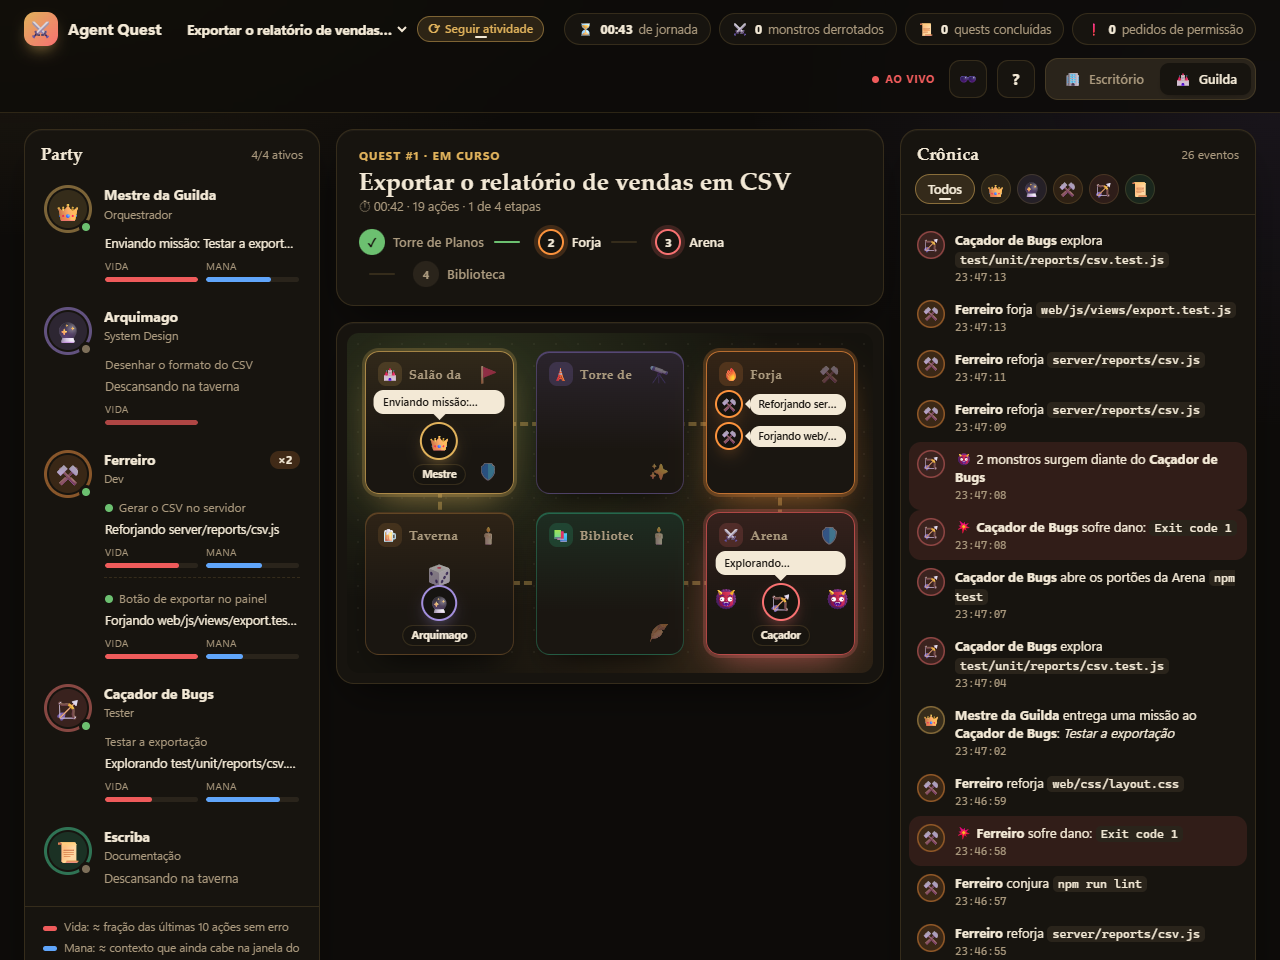
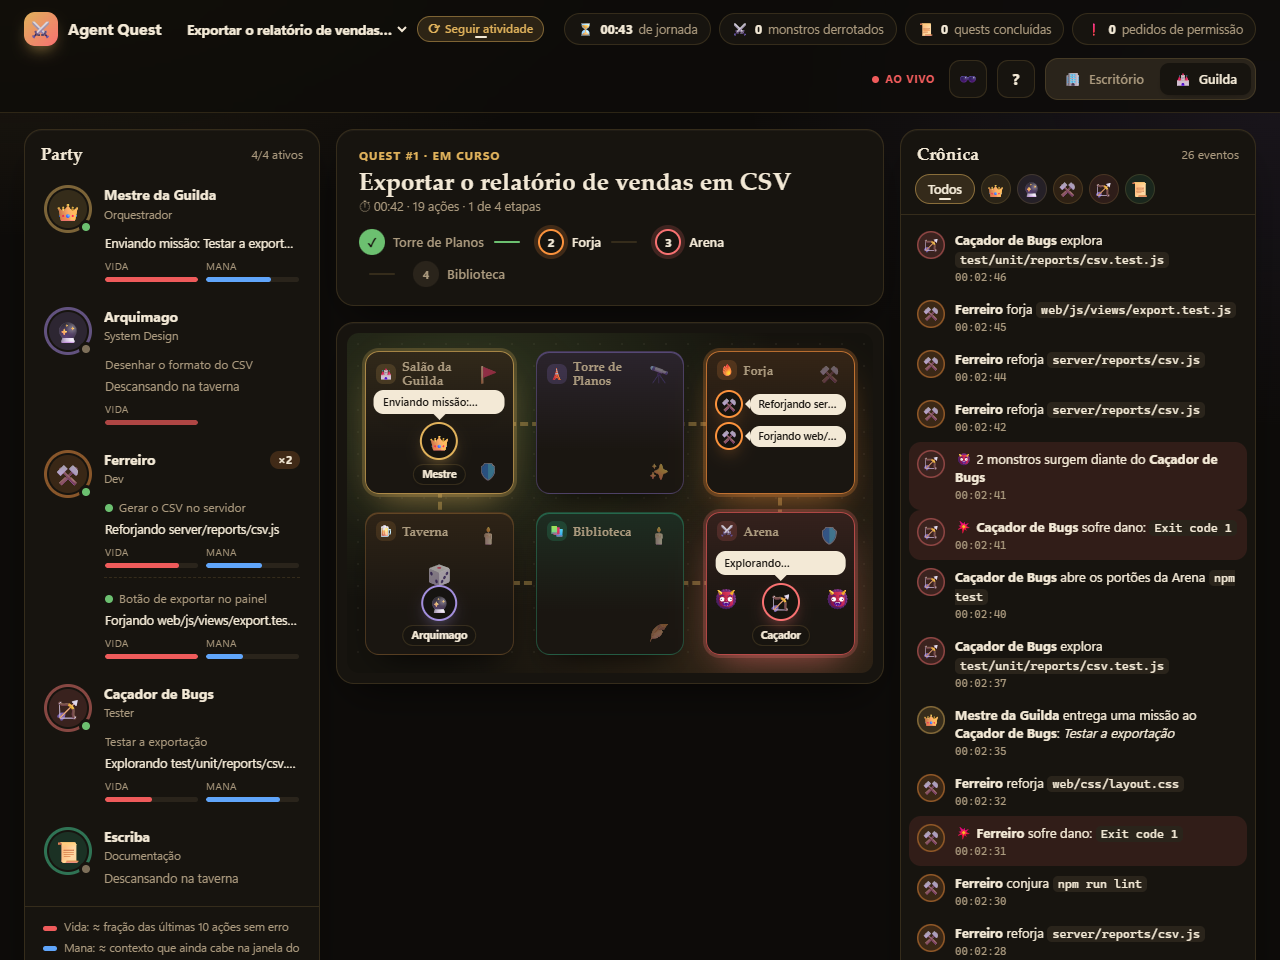
fix: nomes das salas inteiros na cena e prints do README refeitos
O nome da sala ganha elemento próprio com "…" e até duas linhas;
os E2E da barra de contexto ganham o prazo dos arquivos pesados.

diff --git a/test/e2e/scene-geometry.spec.js b/test/e2e/scene-geometry.spec.js
@@ -4,15 +4,22 @@
 // balões, nomes de outros tokens, o nome da sala nem o "+N"; retratos e nomes
 // ficam dentro da sala e não se sobrepõem. Em sala larga, todo token
 // trabalhando ou aguardando tem o balão visível; em sala estreita (celular),
-// sala com mais de um token mostra só os retratos.
+// sala com mais de um token mostra só os retratos. O nome da sala não fica sob
+// a decoração, o "+N", retratos ou nomes de tokens, cabe inteiro a partir de
+// 1280 px (bug dos prints do T17) e, quando cortado, tem o nome inteiro no title.
 
 import { expect, test } from '@playwright/test';
 import { loadSnapshot, mockLiveServer } from './support.js';
 
 const LONG = 'web/js/views/um-arquivo-com-um-nome-bem-comprido-para-testar-o-corte.js';
 
-/** Sessão lotada: todas as salas com mais de 3 tokens possíveis, nomes e ações longos. */
-function crowdedSession() {
+/**
+ * Sessão lotada: todas as salas com mais de 3 tokens possíveis, nomes e ações
+ * longos. Com `designers` acima de 3, a sala de planejamento (o nome mais longo
+ * dos dois temas) também tem o "+N".
+ * @param {number} [designers]
+ */
+function crowdedSession(designers = 2) {
   const session = structuredClone(loadSnapshot('primeira-luz').sessions[0]);
   const base = session.agents.find((/** @type {any} */ a) => a.role === 'dev' && !a.finished);
   /** @param {string} key @param {string} role @param {string} agentType @param {object} [extra] */
@@ -25,7 +32,7 @@ function crowdedSession() {
   session.agents = [
     main,
     agent('g1', 'aux', 'Explore'), agent('g2', 'aux', 'general-purpose'), agent('g3', 'aux', 'Plan'),
-    agent('a1', 'arq', 'arquiteto'), agent('a2', 'arq', 'arquiteto'),
+    ...Array.from({ length: designers }, (_, index) => agent(`a${index + 1}`, 'arq', 'arquiteto')),
     agent('d1', 'dev', 'dev-backend'), agent('d2', 'dev', 'dev-frontend'), agent('d3', 'dev', 'dev-backend'), agent('d4', 'dev', 'dev-frontend'), agent('d5', 'dev', 'dev-backend'),
     agent('t1', 'tes', 'tester', { status: 'waiting', waitingFor: { tool: 'Bash', category: 'bash', target: 'npm run test:e2e' } }), agent('t2', 'tes', 'tester'), agent('t3', 'tes', 'tester'),
     agent('w1', 'doc', 'documentador'),
@@ -38,7 +45,8 @@ function crowdedSession() {
 const SCENARIOS = {
   'primeira-luz': () => loadSnapshot('primeira-luz').sessions[0],
   'ticket-completo': () => loadSnapshot('ticket-completo').sessions[0],
-  lotada: crowdedSession,
+  lotada: () => crowdedSession(),
+  'lotada-com-planejamento': () => crowdedSession(4),
 };
 
 /** Retângulos da cena, por sala, medidos no navegador. */
@@ -60,6 +68,22 @@ async function measure(/** @type {import('@playwright/test').Page} */ page) {
         rect: rect(room),
         label: rect(room.querySelector('.room-label')),
         more: rect(room.querySelector('.room-more')),
+        deco: rect(room.querySelector('.deco.d1')),
+        icon: rect(room.querySelector('.room-label .ri')),
+        roomName: (() => {
+          const el = /** @type {HTMLElement|null} */ (room.querySelector('.room-name'));
+          if (!el) return null;
+          const line = parseFloat(getComputedStyle(el).lineHeight);
+          return {
+            text: el.textContent ?? '',
+            title: el.title,
+            rect: rect(el),
+            // Cortado: o texto passa da caixa na largura ou sobra uma terceira
+            // linha. A folga de meia linha ignora o pixel ou dois que a fonte
+            // da Guilda desenha além da altura da linha.
+            cut: el.scrollWidth > el.clientWidth + 1 || el.scrollHeight > el.clientHeight + line / 2,
+          };
+        })(),
         tokens: [...room.querySelectorAll('.token')].map((token) => ({
           key: /** @type {HTMLElement} */ (token).dataset.key,
           status: ['working', 'waiting', 'idle'].find((s) => token.classList.contains(s)) ?? '',
@@ -80,17 +104,36 @@ const overlaps = (a, b) => a !== null && b !== null && a.l < b.r - 0.5 && b.l < 
 /** @param {Rect|null} inner @param {Rect|null} outer */
 const inside = (inner, outer) => !inner || !outer || (inner.l >= outer.l - 0.5 && inner.r <= outer.r + 0.5 && inner.t >= outer.t - 0.5 && inner.b <= outer.b + 0.5);
 
-/** Problemas de geometria de uma medida. */
-function problemsOf(/** @type {Awaited<ReturnType<typeof measure>>} */ data) {
+/**
+ * Problemas de geometria de uma medida. A partir de 1280 px, o nome de cada
+ * sala cabe inteiro (em até duas linhas); abaixo disso pode ser cortado, mas
+ * tem o nome inteiro no title.
+ * @param {Awaited<ReturnType<typeof measure>>} data
+ * @param {number} width
+ */
+function problemsOf(data, width) {
   const problems = [];
   const allAvatars = data.rooms.flatMap((room) => room.tokens.map((token) => ({ key: token.key, rect: token.avatar })));
   const allBubbles = data.rooms.flatMap((room) => room.tokens.filter((t) => t.bubble).map((token) => ({ key: token.key, rect: token.bubble })));
   for (const room of data.rooms) {
     const narrow = (room.rect?.w ?? 0) < 140;
+    const name = room.roomName;
+    if (!name) problems.push(`${room.id}: sala sem nome`);
+    else {
+      if (name.title !== name.text) problems.push(`${room.id}: nome sem o title com o nome inteiro`);
+      if (name.cut && width >= 1280) problems.push(`${room.id}: nome da sala cortado (${name.text})`);
+      if (!inside(room.label, room.rect)) problems.push(`${room.id}: nome fora da sala`);
+      if (overlaps(name.rect, room.deco)) problems.push(`${room.id}: nome sobre a decoração`);
+      if (overlaps(name.rect, room.more)) problems.push(`${room.id}: nome sobre o "+N"`);
+    }
     for (const token of room.tokens) {
       const who = `${room.id}/${token.key}`;
       if (!inside(token.avatar, room.rect)) problems.push(`${who}: retrato fora da sala`);
       if (!inside(token.name, room.rect)) problems.push(`${who}: nome fora da sala`);
+      for (const part of [room.icon, room.roomName?.rect ?? null]) {
+        if (overlaps(token.avatar, part)) problems.push(`${who}: retrato sobre o nome da sala`);
+        if (overlaps(token.name, part)) problems.push(`${who}: nome do token sobre o nome da sala`);
+      }
       const active = token.status === 'working' || token.status === 'waiting';
       if (active && !narrow && !token.bubble) problems.push(`${who}: trabalhando sem balão em sala larga`);
       if (active && !narrow && token.bubble && token.bubble.w < 60) problems.push(`${who}: balão estreito demais (${Math.round(token.bubble.w)} px)`);
@@ -117,7 +160,7 @@ function problemsOf(/** @type {Awaited<ReturnType<typeof measure>>} */ data) {
 
 for (const theme of ['escritorio', 'guilda']) {
   for (const [name, build] of Object.entries(SCENARIOS)) {
-    test(`cena ${name} (${theme}): balões, retratos e nomes sem sobreposição em todas as larguras`, async ({ page }) => {
+    test(`cena ${name} (${theme}): balões, retratos, nomes e nome da sala sem sobreposição em todas as larguras`, async ({ page }) => {
       await mockLiveServer(page, [build()]);
       const problems = [];
       for (const width of [360, 820, 1024, 1280, 1440, 1920]) {
@@ -127,7 +170,7 @@ for (const theme of ['escritorio', 'guilda']) {
           await expect(page.locator('.rooms .token').first()).toBeVisible();
         }
         await page.waitForTimeout(100);
-        for (const problem of problemsOf(await measure(page))) problems.push(`${width} px ${problem}`);
+        for (const problem of problemsOf(await measure(page), width)) problems.push(`${width} px ${problem}`);
       }
       expect(problems).toEqual([]);
     });

diff --git a/web/css/scene.css b/web/css/scene.css
@@ -49,9 +49,16 @@
   border-color: color-mix(in srgb, var(--agent) 70%, transparent);
   box-shadow: 0 0 0 3px color-mix(in srgb, var(--agent) 22%, transparent), 0 16px 36px -14px color-mix(in srgb, var(--agent) 60%, transparent);
 }
-.room-label { position: absolute; top: 10px; right: 50px; left: 12px; display: flex; align-items: center; gap: 7px; overflow: hidden; font-size: 11.5px; font-weight: 650; color: var(--muted); white-space: nowrap; text-overflow: ellipsis; }
-:root[data-theme="guilda"] .room-label { font-family: var(--title-font); font-size: 13px; letter-spacing: .02em; }
-.ri { display: grid; flex: none; place-items: center; width: 24px; height: 24px; font-size: 13px; border-radius: 8px; background: color-mix(in srgb, var(--agent) 16%, transparent); }
+/* Nome da sala: ícone menor que o do mockup e nome em até duas linhas, para os
+   nomes caberem inteiros a 1280 px (salas de ~150 px); o que ainda não couber
+   é cortado com "…" e tem o nome inteiro no title. A borda direita deixa livre
+   a primeira decoração ou, em sala com "+N" (has-more), o selo. Duas linhas
+   terminam antes da primeira vaga do arranjo rows (top: 38px). */
+.room-label { position: absolute; top: 8px; right: 40px; left: 10px; display: flex; align-items: center; gap: 6px; font-size: 11.5px; font-weight: 650; line-height: 1.15; color: var(--muted); }
+.room.has-more .room-label { right: 46px; }
+:root[data-theme="guilda"] .room-label { font-family: var(--title-font); font-size: 12.5px; letter-spacing: .01em; line-height: 1.1; }
+.room-name { display: -webkit-box; min-width: 0; overflow: hidden; overflow-wrap: normal; text-overflow: ellipsis; -webkit-line-clamp: 2; -webkit-box-orient: vertical; }
+.ri { display: grid; flex: none; place-items: center; width: 20px; height: 20px; font-size: 11.5px; border-radius: 7px; background: color-mix(in srgb, var(--agent) 16%, transparent); }
 .deco { position: absolute; right: 12px; font-size: 18px; opacity: .5; pointer-events: none; }
 .deco.d1 { top: 9px; }
 .deco.d2 { bottom: 9px; }
@@ -217,4 +224,6 @@
   .finale-card h3 { font-size: 20px; }
   .rooms { grid-template-columns: repeat(2, minmax(0, 1fr)); grid-template-rows: repeat(3, minmax(0, 1fr)); grid-template-areas: "hq design" "dev test" "idle docs"; gap: 12px; padding: 12px; }
   .loop, .deco { display: none; }
+  /* Sem decorações, o nome usa a largura até o "+N", se houver. */
+  .room-label { right: 10px; }
 }

diff --git a/test/unit/web/scene.test.js b/test/unit/web/scene.test.js
@@ -103,6 +103,14 @@ describe('arranjos no CSS', () => {
       }
     }
   });
+
+  it('o nome da sala vai até duas linhas e o que não couber é cortado com "…"', () => {
+    const rule = SCENE_CSS.match(/\n\.room-name \{([^}]*)\}/)?.[1] ?? '';
+    for (const declaration of ['min-width: 0', 'overflow: hidden', 'text-overflow: ellipsis', '-webkit-line-clamp: 2']) {
+      assert.ok(rule.includes(declaration), declaration);
+    }
+    assert.match(SCENE_CSS, /\.room\.has-more \.room-label \{[^}]*right:/, 'sala com "+N" reserva o canto do selo');
+  });
 });
 
 describe('renderScene', () => {
@@ -111,7 +119,12 @@ describe('renderScene', () => {
       const html = renderScene({ session: null, theme });
       for (const id of ROOM_IDS) {
         assert.match(html, new RegExp(`<div class="room" data-room="${id}"`));
-        assert.ok(html.includes(esc(theme.rooms[id].name)), id);
+        const name = esc(theme.rooms[id].name);
+        // Nome em elemento próprio (o corte com "…" só vale nele), com o nome
+        // inteiro no title; o ícone é decorativo.
+        assert.ok(html.includes(
+          `<div class="room-label"><span class="ri" aria-hidden="true">${esc(theme.rooms[id].icon)}</span><span class="room-name" title="${name}">${name}</span></div>`,
+        ), id);
       }
       assert.ok(!html.includes('class="token'));
       assert.match(html, /role="img" aria-label="Cena: [^"]*sem agentes"/);
@@ -144,6 +157,8 @@ describe('renderScene', () => {
       const dev = html.split('data-room="dev"')[1].split('data-room="idle"')[0];
       assert.equal((dev.match(/class="token /g) ?? []).length, 3);
       assert.match(dev, /<span class="room-more" title="2 agentes a mais nesta sala">\+2<\/span>/);
+      assert.match(html, /<div class="room( active)? has-more" data-room="dev"/, 'sala com "+N" reserva o canto no nome da sala');
+      assert.doesNotMatch(html, /has-more" data-room="design"/, 'sala sem "+N" não reserva o canto');
       assert.ok(!dev.includes('deco d1'), 'o "+N" ocupa o canto da primeira decoração');
       assert.ok(html.split('data-room="design"')[1].split('data-room="dev"')[0].includes('deco d1'), 'sala sem "+N" mantém a decoração');
     });

diff --git a/web/js/scene.js b/web/js/scene.js
@@ -209,9 +209,11 @@ function roomHTML(room, theme, h, bugs) {
   const more = room.overflow > 0
     ? `<span class="room-more" title="${room.overflow} ${room.overflow === 1 ? 'agente a mais' : 'agentes a mais'} nesta sala">+${room.overflow}</span>`
     : '';
-  const classes = `room${room.active ? ' active' : ''}${bugs > 0 ? ' alarm' : ''}`;
+  const classes = `room${room.active ? ' active' : ''}${bugs > 0 ? ' alarm' : ''}${more ? ' has-more' : ''}`;
+  // O nome tem elemento próprio: em até duas linhas e, se ainda não couber,
+  // cortado com "…" pelo CSS, com o nome inteiro no title.
   return `<div class="${classes}" data-room="${room.id}"${owner ? ` data-agent="${owner}"` : ''} data-count="${room.tokens.length}" data-layout="${room.layout}">` +
-    `<div class="room-label"><span class="ri">${esc(words.icon)}</span>${esc(words.name)}</div>` +
+    `<div class="room-label"><span class="ri" aria-hidden="true">${esc(words.icon)}</span><span class="room-name" title="${esc(words.name)}">${esc(words.name)}</span></div>` +
     // Com "+N", o selo ocupa o canto da primeira decoração.
     (more ? '' : `<span class="deco d1">${esc(words.deco[0])}</span>`) +
     `<span class="deco d2">${esc(words.deco[1])}</span>` +

diff --git a/test/e2e/context-bar.spec.js b/test/e2e/context-bar.spec.js
@@ -41,6 +41,12 @@ const WITH_CONTEXT = {
 const inst = (page, key) => page.locator(`#party li.inst[data-key="${key}"]`);
 
 test.describe('T16: barra de contexto com snapshots escritos à mão', () => {
+  // Este arquivo cai na primeira leva da suíte, junto com as rajadas do feed e
+  // do modo discreto. Com a máquina carregada, o primeiro teste (cerca de 25
+  // passos) passou dos 30 s padrão, inclusive o fechamento do contexto, com
+  // todas as conferências certas. Mesmo prazo dos outros arquivos pesados.
+  test.describe.configure({ timeout: 90_000 });
+
   test('com contexto: valor, "≈" e fonte; some com null; tema, modo discreto e legenda', async ({ page, baseURL }) => {
     const watch = await watchPage(page, /** @type {string} */ (baseURL));
     await mockLiveServer(page, [sessionWith(WITH_CONTEXT)]);

diff --git a/test/e2e/context-bar-qa.spec.js b/test/e2e/context-bar-qa.spec.js
@@ -23,6 +23,11 @@ function sessionWith(/** @type {Record<string, any>} */ contexts) {
 }
 
 test.describe('T16 (QA): contexto fora do contrato', () => {
+  // Primeira leva da suíte, com a máquina carregada: o corpo terminou em 18 s,
+  // mas o fechamento do contexto passou dos 30 s padrão. Mesmo prazo dos
+  // outros arquivos pesados.
+  test.describe.configure({ timeout: 90_000 });
+
   test('pct negativo e acima de 100 são limitados; forma inválida some; tokens enormes não quebram o layout', async ({ page, baseURL }) => {
     const watch = await watchPage(page, /** @type {string} */ (baseURL));
     const dialogs = /** @type {string[]} */ ([]);
